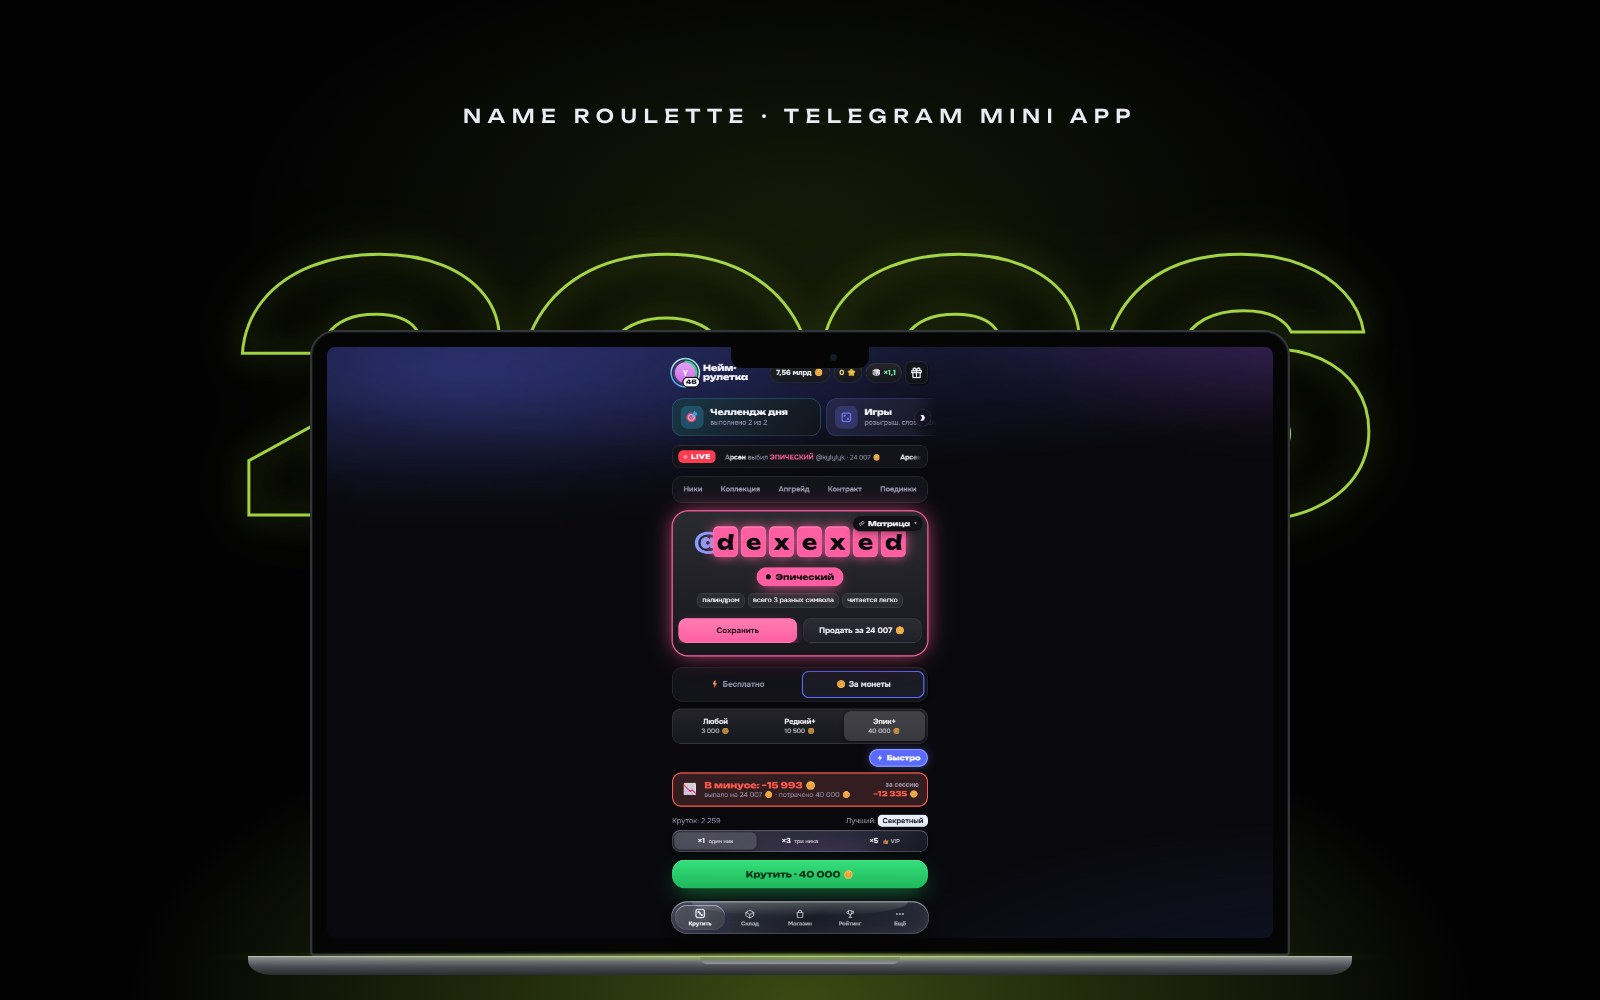
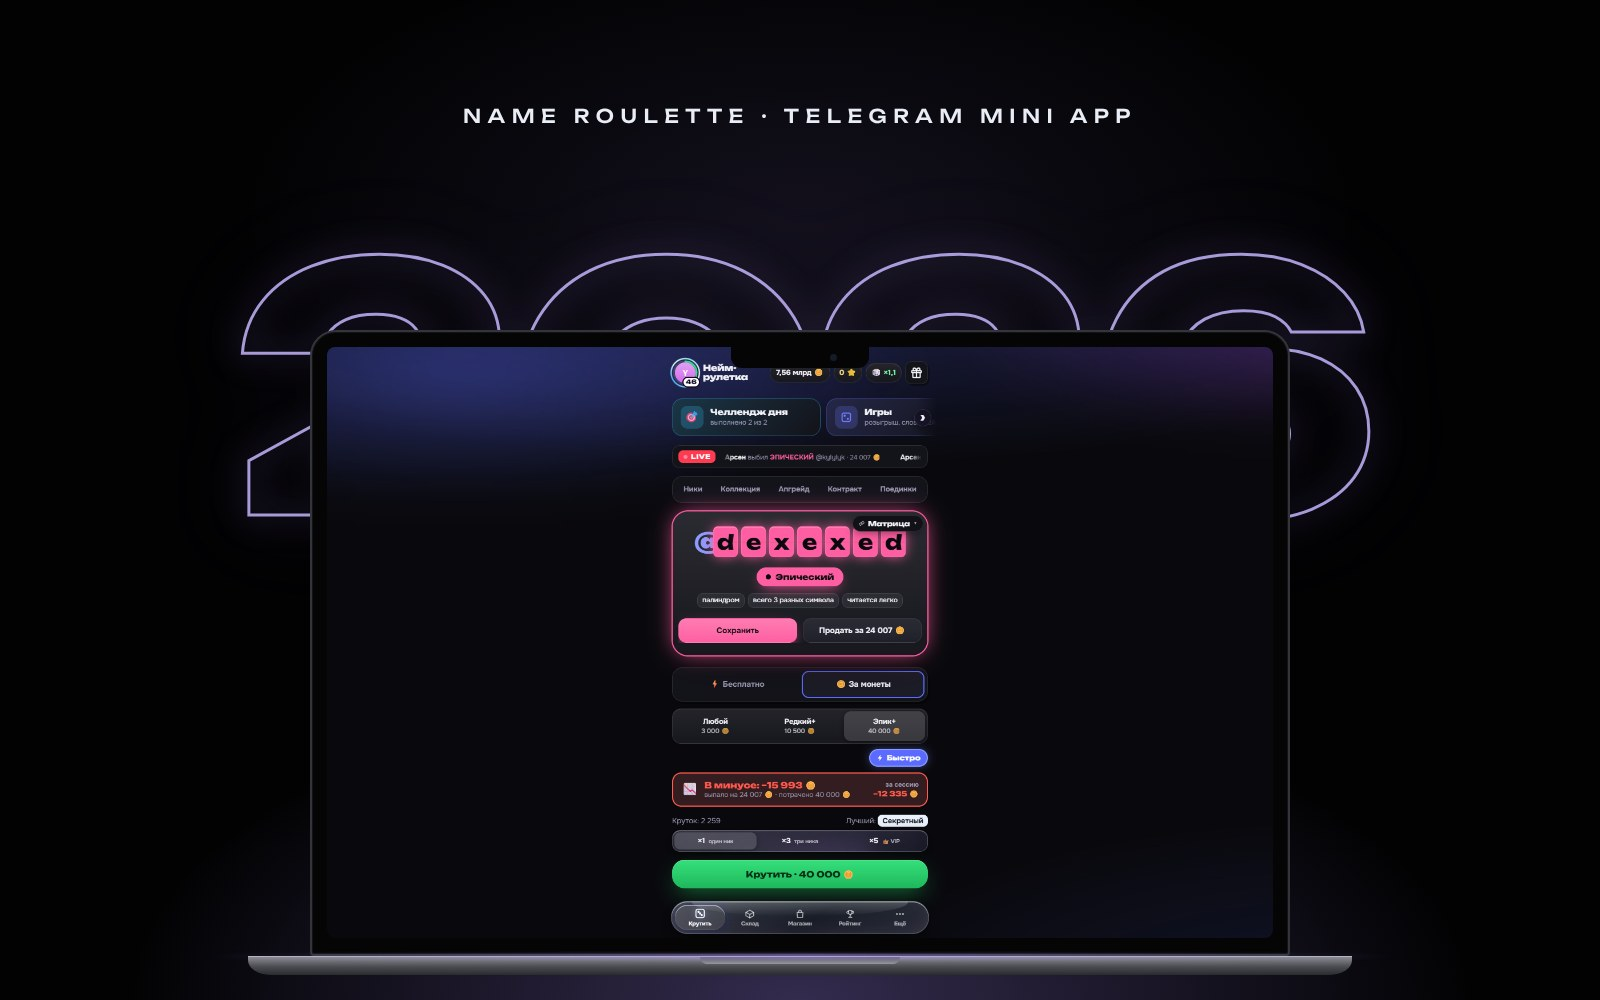
Акцент сайта: фиолетовый вместо лаймового
Claude-Session: https://claude.ai/code/session_01LKqLCD9wZr4nvdWgEXEFpT

diff --git a/css/style.css b/css/style.css
@@ -7,8 +7,8 @@
   --line2: rgba(255, 255, 255, .16);
   --text: #f2f4f7;
   --muted: #8b919c;
-  --accent: #b8f13a;
-  --accent2: #a3d92a;
+  --accent: #a78bfa;
+  --accent2: #8b5cf6;
   --ease: cubic-bezier(.22, .61, .36, 1);
   --slow: .88s;
   --wrap: 1080px;
@@ -19,11 +19,11 @@
 }
 
 *, *::before, *::after { box-sizing: border-box; }
-html { scrollbar-width: thin; scrollbar-color: #b8f13a #030304; }
+html { scrollbar-width: thin; scrollbar-color: #a78bfa #030304; }
 ::-webkit-scrollbar { width: 10px; height: 10px; }
 ::-webkit-scrollbar-track { background: #030304; }
-::-webkit-scrollbar-thumb { background: linear-gradient(180deg, #b8f13a, #a3d92a); border-radius: 10px; border: 2px solid #030304; }
-::-webkit-scrollbar-thumb:hover { background: #d3f97d; }
+::-webkit-scrollbar-thumb { background: linear-gradient(180deg, #a78bfa, #8b5cf6); border-radius: 10px; border: 2px solid #030304; }
+::-webkit-scrollbar-thumb:hover { background: #c4b5fd; }
 html { scroll-behavior: smooth; -webkit-text-size-adjust: 100%; }
 body {
   margin: 0;
@@ -54,9 +54,9 @@ p { margin: 0; }
 /* ---------- фон: медленные размытые пятна ---------- */
 .aurora { position: fixed; inset: 0; z-index: -1; overflow: hidden; pointer-events: none; }
 .orb { position: absolute; border-radius: 50%; filter: blur(110px); opacity: .22; will-change: transform; }
-.orb.o1 { width: 46vw; height: 46vw; left: 27vw; top: -26vw; background: radial-gradient(circle, #b8f13a, transparent 68%); opacity: .2; animation: drift1 46s ease-in-out infinite alternate; }
+.orb.o1 { width: 46vw; height: 46vw; left: 27vw; top: -26vw; background: radial-gradient(circle, #a78bfa, transparent 68%); opacity: .2; animation: drift1 46s ease-in-out infinite alternate; }
 .orb.o2 { width: 44vw; height: 44vw; right: -12vw; top: 18vh; background: radial-gradient(circle, #3c8a2a, transparent 68%); opacity: .16; animation: drift2 58s ease-in-out infinite alternate; }
-.orb.o3 { width: 38vw; height: 38vw; left: 28vw; bottom: -22vw; background: radial-gradient(circle, #b8f13a, transparent 68%); opacity: .1; animation: drift3 52s ease-in-out infinite alternate; }
+.orb.o3 { width: 38vw; height: 38vw; left: 28vw; bottom: -22vw; background: radial-gradient(circle, #a78bfa, transparent 68%); opacity: .1; animation: drift3 52s ease-in-out infinite alternate; }
 @keyframes drift1 { to { transform: translate(14vw, 12vh) scale(1.15); } }
 @keyframes drift2 { to { transform: translate(-16vw, 14vh) scale(.9); } }
 @keyframes drift3 { to { transform: translate(-12vw, -14vh) scale(1.2); } }
@@ -153,7 +153,7 @@ body.menu-open .mnav a { opacity: 1; filter: blur(0); transform: none; transitio
   border: 1px solid transparent;
   transition: background 0.68s var(--ease), color 0.68s var(--ease), border-color 0.68s var(--ease), box-shadow 0.98s var(--ease), transform 0.98s var(--ease);
 }
-.btn:hover { box-shadow: 0 10px 60px -8px rgba(184,241,58, .65); transform: translateY(-2px); }
+.btn:hover { box-shadow: 0 10px 60px -8px rgba(167,139,250, .65); transform: translateY(-2px); }
 .btn.ghost { background: transparent; color: var(--text); border-color: var(--line2); }
 .btn.ghost:hover { border-color: var(--accent); color: var(--accent); box-shadow: none; }
 .btn.sm { padding: 12px 22px; font-size: 15px; }
@@ -185,7 +185,7 @@ section, .page-hero { overflow-x: clip; }
 
 /* ---------- hero ---------- */
 .hero { position: relative; min-height: 100svh; display: flex; align-items: center; justify-content: center; text-align: center; padding: 140px 0 90px; }
-.hero::before { content: ""; position: absolute; inset: 0; z-index: 0; pointer-events: none; background: radial-gradient(ellipse 38% 44% at 86% 6%, rgba(184,241,58, .16), transparent 70%), radial-gradient(ellipse 46% 40% at 50% 38%, rgba(184,241,58, .08), transparent 70%); }
+.hero::before { content: ""; position: absolute; inset: 0; z-index: 0; pointer-events: none; background: radial-gradient(ellipse 38% 44% at 86% 6%, rgba(167,139,250, .16), transparent 70%), radial-gradient(ellipse 46% 40% at 50% 38%, rgba(167,139,250, .08), transparent 70%); }
 .hero .wrap { position: relative; z-index: 1; }
 .kicker { margin-bottom: 26px; font: 400 12px/1 var(--body); letter-spacing: .28em; text-transform: uppercase; color: var(--muted); }
 .hero h1 { font: 300 clamp(38px, 6.4vw, 92px)/1.05 var(--body); letter-spacing: -.035em; max-width: 15.5ch; margin-inline: auto; }
@@ -210,7 +210,7 @@ section, .page-hero { overflow-x: clip; }
 .filters { display: flex; gap: 10px; flex-wrap: wrap; margin-bottom: 36px; }
 .chip { padding: 11px 22px; border-radius: 10px; border: 1px solid var(--line); color: var(--muted); font-size: 15px; transition: color 0.58s var(--ease), border-color 0.58s var(--ease), background 0.58s var(--ease); }
 .chip:hover { color: var(--text); border-color: var(--line2); }
-.chip[aria-pressed="true"] { color: var(--text); background: rgba(184,241,58, .14); border-color: rgba(184,241,58, .5); }
+.chip[aria-pressed="true"] { color: var(--text); background: rgba(167,139,250, .14); border-color: rgba(167,139,250, .5); }
 
 .grid { display: grid; grid-template-columns: repeat(2, 1fr); gap: 26px; align-items: start; }
 .work { text-align: left; display: flex; flex-direction: column; justify-content: flex-start; width: 100%; }
@@ -224,7 +224,7 @@ section, .page-hero { overflow-x: clip; }
 .cover::before { content: ""; position: absolute; inset: 0; background-image: linear-gradient(rgba(255,255,255,.07) 1px, transparent 1px), linear-gradient(90deg, rgba(255,255,255,.07) 1px, transparent 1px); background-size: 44px 44px; -webkit-mask-image: radial-gradient(circle at 70% 30%, #000, transparent 75%); mask-image: radial-gradient(circle at 70% 30%, #000, transparent 75%); }
 .cover .glyph { position: absolute; left: 28px; bottom: 6px; font: 500 clamp(52px, 9vw, 120px)/1 var(--display); letter-spacing: -.06em; color: rgba(255, 255, 255, .9); mix-blend-mode: soft-light; transition: transform 1.08s var(--ease), filter 1.08s var(--ease); }
 .cover img { position: absolute; inset: 0; width: 100%; height: 100%; object-fit: cover; transition: transform 1.08s var(--ease); }
-.work:hover .cover { border-color: rgba(184,241,58, .55); }
+.work:hover .cover { border-color: rgba(167,139,250, .55); }
 .work:hover .cover .glyph, .work:hover .cover img { transform: scale(1.06); }
 .work-info { padding: 22px 6px 0; }
 .work-info .t { color: var(--muted); font-size: 14px; margin-bottom: 8px; }
@@ -242,7 +242,7 @@ section, .page-hero { overflow-x: clip; }
   background: linear-gradient(90deg, rgba(255,255,255,.035), rgba(255,255,255,.01));
   transition: border-color 1s var(--ease), background 1s var(--ease);
 }
-a.svc:hover { border-color: rgba(184,241,58, .5); background: linear-gradient(90deg, rgba(184,241,58,.09), rgba(255,255,255,.01)); }
+a.svc:hover { border-color: rgba(167,139,250, .5); background: linear-gradient(90deg, rgba(167,139,250,.09), rgba(255,255,255,.01)); }
 .svc h3 { font-size: clamp(17px, 1.7vw, 22px); }
 .svc p { color: var(--muted); font-size: 16px; max-width: 52ch; }
 .svc .meta { display: flex; flex-direction: column; align-items: flex-end; gap: 8px; min-width: 150px; text-align: right; }
@@ -273,7 +273,7 @@ a.svc:hover { border-color: rgba(184,241,58, .5); background: linear-gradient(90
 .portrait {
   position: relative;
   aspect-ratio: 4 / 5; border-radius: var(--r); border: 1px solid var(--line); overflow: hidden;
-  background: radial-gradient(circle at 30% 20%, rgba(184,241,58,.5), transparent 60%), radial-gradient(circle at 80% 90%, rgba(184,241,58,.4), transparent 55%), var(--card);
+  background: radial-gradient(circle at 30% 20%, rgba(167,139,250,.5), transparent 60%), radial-gradient(circle at 80% 90%, rgba(167,139,250,.4), transparent 55%), var(--card);
   display: flex; align-items: flex-end; padding: 30px;
 }
 .portrait b { font: 800 clamp(34px, 4.4vw, 60px)/1 var(--display); letter-spacing: -.05em; color: rgba(255,255,255,.95); }
@@ -316,7 +316,7 @@ a.svc:hover { border-color: rgba(184,241,58, .5); background: linear-gradient(90
   display: grid; grid-template-columns: 1.4fr 1fr; gap: clamp(24px, 5vw, 70px); align-items: end;
   padding: clamp(36px, 6vw, 84px);
   border: 1px solid var(--line); border-radius: 32px;
-  background: radial-gradient(circle at 100% 110%, rgba(184,241,58, .34), transparent 55%), radial-gradient(circle at 0% 0%, rgba(184,241,58, .14), transparent 50%), var(--bg2);
+  background: radial-gradient(circle at 100% 110%, rgba(167,139,250, .34), transparent 55%), radial-gradient(circle at 0% 0%, rgba(167,139,250, .14), transparent 50%), var(--bg2);
 }
 .cta-card::before { top: -.3em; transform: translateX(-50%); }
 .cta-card h2 { font-size: clamp(28px, 4.2vw, 56px); max-width: 14ch; text-wrap: balance; }
@@ -333,12 +333,12 @@ a.svc:hover { border-color: rgba(184,241,58, .5); background: linear-gradient(90
   transition: border-color 0.58s var(--ease), box-shadow 0.58s var(--ease);
 }
 .field select { appearance: none; background-image: linear-gradient(45deg, transparent 50%, var(--muted) 50%), linear-gradient(135deg, var(--muted) 50%, transparent 50%); background-position: calc(100% - 22px) 52%, calc(100% - 16px) 52%; background-size: 6px 6px; background-repeat: no-repeat; }
-.field input:focus, .field select:focus, .field textarea:focus { outline: 0; border-color: var(--accent); box-shadow: 0 0 0 4px rgba(184,241,58, .15); }
+.field input:focus, .field select:focus, .field textarea:focus { outline: 0; border-color: var(--accent); box-shadow: 0 0 0 4px rgba(167,139,250, .15); }
 .field textarea { min-height: 150px; }
 .form .note { color: var(--muted); font-size: 14px; }
 .links { display: grid; gap: 14px; }
 .link-card { display: flex; justify-content: space-between; align-items: center; gap: 20px; padding: 26px 28px; border: 1px solid var(--line); border-radius: var(--r); transition: border-color 0.78s var(--ease), background 0.78s var(--ease); }
-.link-card:hover { border-color: rgba(184,241,58, .5); background: rgba(184,241,58, .06); }
+.link-card:hover { border-color: rgba(167,139,250, .5); background: rgba(167,139,250, .06); }
 .link-card b { display: block; font: 400 20px/1.2 var(--display); letter-spacing: -.02em; }
 .link-card span { color: var(--muted); font-size: 15px; }
 .link-card svg { width: 22px; height: 22px; flex: none; color: var(--accent); }
@@ -355,10 +355,10 @@ a.svc:hover { border-color: rgba(184,241,58, .5); background: linear-gradient(90
 .qhint { color: var(--muted); margin: 10px 0 28px; font-size: 15px; max-width: 52ch; }
 .opts { display: grid; gap: 10px; }
 .opt { display: flex; gap: 16px; align-items: flex-start; text-align: left; width: 100%; padding: 16px 18px; border: 1px solid var(--line2); border-radius: 10px; transition: border-color 0.48s var(--ease), background 0.48s var(--ease); }
-.opt:hover { border-color: rgba(184,241,58, .5); }
+.opt:hover { border-color: rgba(167,139,250, .5); }
 .opt .rd { width: 18px; height: 18px; flex: none; margin-top: 3px; border-radius: 50%; border: 1.5px solid var(--muted); position: relative; transition: border-color 0.38s var(--ease); }
 .opt .rd::after { content: ""; position: absolute; inset: 3px; border-radius: 50%; background: var(--accent); transform: scale(0); transition: transform 0.3s var(--ease); }
-.opt[aria-checked="true"] { border-color: var(--accent); background: rgba(184,241,58, .08); }
+.opt[aria-checked="true"] { border-color: var(--accent); background: rgba(167,139,250, .08); }
 .opt[aria-checked="true"] .rd { border-color: var(--accent); }
 .opt[aria-checked="true"] .rd::after { transform: scale(1); }
 .opt b { display: block; font-weight: 500; font-size: 16px; }
@@ -533,7 +533,7 @@ a.work { color: inherit; }
 .pts li, .pts li:last-child { position: relative; padding: 16px 18px 16px 38px; border: 1px solid var(--line); border-radius: 10px; background: rgba(255,255,255,.02); font-size: 14px; }
 .pts li::before { content: ""; position: absolute; left: 16px; top: 22px; width: 7px; height: 7px; background: var(--accent); }
 .case-nav .link-card span { display: block; margin-bottom: 4px; font-size: 12px; }
-.case-cta { display: flex; justify-content: space-between; align-items: center; gap: 24px 40px; flex-wrap: wrap; margin-top: 14px; padding: clamp(24px, 4vw, 40px); border: 1px solid rgba(184,241,58,.3); border-radius: var(--r); background: linear-gradient(120deg, rgba(184,241,58,.14), rgba(255,255,255,.02)); }
+.case-cta { display: flex; justify-content: space-between; align-items: center; gap: 24px 40px; flex-wrap: wrap; margin-top: 14px; padding: clamp(24px, 4vw, 40px); border: 1px solid rgba(167,139,250,.3); border-radius: var(--r); background: linear-gradient(120deg, rgba(167,139,250,.14), rgba(255,255,255,.02)); }
 .case-cta h2 { font-size: clamp(22px, 2.6vw, 32px); margin-bottom: 8px; }
 .case-cta p { color: var(--muted); max-width: 44ch; }
 @media (max-width: 680px) { .pts { grid-template-columns: 1fr; } }
@@ -594,7 +594,7 @@ a.work { color: inherit; }
 .sc-main { display: grid; grid-template-columns: minmax(0, 1.5fr) minmax(0, 1fr); gap: clamp(24px, 4vw, 56px); align-items: center; transition: opacity .26s ease, transform .26s ease; }
 .sc-main.swap { opacity: 0; transform: translateY(8px); }
 .sc-pic { display: block; }
-.sc-pic:hover .cover { border-color: rgba(184,241,58, .55); }
+.sc-pic:hover .cover { border-color: rgba(167,139,250, .55); }
 .sc-pic:hover .cover img { transform: scale(1.03); }
 .sc-type { color: var(--accent); font-size: 14px; margin-bottom: 14px; }
 .sc-info h3 { font-size: clamp(26px, 3vw, 40px); line-height: 1.1; }
@@ -603,7 +603,7 @@ a.work { color: inherit; }
 .sc-grid { display: grid; grid-template-columns: repeat(var(--cols, 4), minmax(0, 1fr)); gap: 20px; margin-top: clamp(28px, 4vw, 48px); }
 .sc-card { display: flex; flex-direction: column; text-align: left; gap: 0; cursor: pointer; background: none; border: 0; padding: 0; color: inherit; font: inherit; }
 .sc-card .cover { transition: border-color .5s var(--ease), transform .5s var(--ease); }
-.sc-card:hover .cover, .sc-card:focus-visible .cover { border-color: rgba(184,241,58, .55); transform: translateY(-3px); }
+.sc-card:hover .cover, .sc-card:focus-visible .cover { border-color: rgba(167,139,250, .55); transform: translateY(-3px); }
 .sc-name { margin-top: 14px; font-size: 16px; }
 .sc-sub { margin-top: 4px; color: var(--muted); font-size: 13px; }
 @media (max-width: 980px) { .sc-main { grid-template-columns: minmax(0, 1fr); } .sc-grid { grid-template-columns: repeat(2, minmax(0, 1fr)); gap: 16px; } }
@@ -622,7 +622,7 @@ a.work { color: inherit; }
 .sc-pic, .sc-card, a.work { -webkit-user-select: none; user-select: none; -webkit-tap-highlight-color: transparent; }
 .sc-pic, .sc-card .cover, a.work .cover { touch-action: pan-y; }
 .cover { will-change: transform; transform-style: preserve-3d; }
-.cover.tilting { transition: border-color .4s var(--ease), box-shadow .3s ease !important; box-shadow: 0 24px 60px rgba(0, 0, 0, .55), 0 0 40px rgba(184,241,58, .12); border-color: rgba(184,241,58, .55); }
+.cover.tilting { transition: border-color .4s var(--ease), box-shadow .3s ease !important; box-shadow: 0 24px 60px rgba(0, 0, 0, .55), 0 0 40px rgba(167,139,250, .12); border-color: rgba(167,139,250, .55); }
 .cover.tilt-back { transition: transform .7s cubic-bezier(.2, .9, .25, 1.2), border-color .6s var(--ease), box-shadow .6s ease !important; }
 .cover.tilting img, .cover.tilting .glyph { transform: none !important; }
 .cover::after { content: ""; position: absolute; inset: 0; pointer-events: none; opacity: 0; transition: opacity .3s ease; background: radial-gradient(circle at var(--gx, 50%) var(--gy, 50%), rgba(255, 255, 255, .22), transparent 55%); }
@@ -633,11 +633,11 @@ a.work { color: inherit; }
 .case-cover { position: relative; }
 .demo-open { position: absolute; left: 50%; bottom: 7%; transform: translateX(-50%); z-index: 3; display: inline-flex; align-items: center; gap: 10px; padding: 13px 22px; border-radius: 999px; border: 1px solid rgba(255,255,255,.22); background: rgba(8,10,16,.72); -webkit-backdrop-filter: blur(10px); backdrop-filter: blur(10px); color: #fff; font: 500 15px/1 var(--body); cursor: pointer; transition: background .4s var(--ease), border-color .4s var(--ease), transform .4s var(--ease); }
 .demo-open:hover { background: var(--accent); border-color: var(--accent); transform: translateX(-50%) translateY(-2px); }
-.demo-open .dot { width: 8px; height: 8px; border-radius: 50%; background: var(--accent); box-shadow: 0 0 0 0 rgba(184,241,58,.6); animation: demoPulse 2.2s infinite; }
+.demo-open .dot { width: 8px; height: 8px; border-radius: 50%; background: var(--accent); box-shadow: 0 0 0 0 rgba(167,139,250,.6); animation: demoPulse 2.2s infinite; }
 .demo-open:hover .dot { background: #fff; }
-@keyframes demoPulse { 70% { box-shadow: 0 0 0 10px rgba(184,241,58,0); } 100% { box-shadow: 0 0 0 0 rgba(184,241,58,0); } }
+@keyframes demoPulse { 70% { box-shadow: 0 0 0 10px rgba(167,139,250,0); } 100% { box-shadow: 0 0 0 0 rgba(167,139,250,0); } }
 .case-cover.demo-on > .demo-open { display: none; }
-.demo { position: absolute; inset: 0; z-index: 4; overflow: auto; padding: 18px; border-radius: inherit; background: radial-gradient(ellipse 60% 45% at 50% 100%, rgba(184,241,58,.28), transparent 70%), #04050a; animation: demoIn .5s var(--ease); }
+.demo { position: absolute; inset: 0; z-index: 4; overflow: auto; padding: 18px; border-radius: inherit; background: radial-gradient(ellipse 60% 45% at 50% 100%, rgba(167,139,250,.28), transparent 70%), #04050a; animation: demoIn .5s var(--ease); }
 @keyframes demoIn { from { opacity: 0; transform: scale(.98); } }
 .case-cover.demo-on { aspect-ratio: auto; min-height: 0; }
 .case-cover.demo-on > .cover { display: none; }
@@ -645,7 +645,7 @@ a.work { color: inherit; }
 .demo-top { display: flex; align-items: center; justify-content: space-between; gap: 12px; margin-bottom: 14px; }
 .demo-hint { color: var(--muted); font-size: 14px; }
 .demo-x { border: 1px solid var(--line); background: transparent; color: #fff; border-radius: 999px; padding: 8px 16px; font: 500 14px/1 var(--body); cursor: pointer; transition: border-color .3s ease, background .3s ease; }
-.demo-x:hover { border-color: var(--accent); background: rgba(184,241,58,.12); }
+.demo-x:hover { border-color: var(--accent); background: rgba(167,139,250,.12); }
 .demo-dev { margin: 0 auto; background: #050506; border: 2px solid #34353a; border-radius: 22px 22px 4px 4px; padding: 12px; }
 .demo-laptop .demo-dev { max-width: 980px; }
 .demo-phone .demo-dev { max-width: 380px; border-radius: 42px; padding: 14px; }
@@ -658,13 +658,13 @@ a.work { color: inherit; }
 .demo { background: none; padding-inline: 0; }
 
 /* подписи типа проекта: моноширинный капс с разрядкой */
-.sc-type, #case-type { font: 400 13px/1.5 var(--mono); letter-spacing: .14em; text-transform: uppercase; color: #d3f97d; }
+.sc-type, #case-type { font: 400 13px/1.5 var(--mono); letter-spacing: .14em; text-transform: uppercase; color: #c4b5fd; }
 .sc-sub, .work-info .t { font-family: var(--mono); font-size: 11px; letter-spacing: .12em; text-transform: uppercase; }
 
 /* ---------- услуги: карточки ---------- */
 .sv-grid { display: grid; grid-template-columns: repeat(3, minmax(0, 1fr)); gap: 20px; }
 .sv { position: relative; display: flex; flex-direction: column; padding: 30px 32px 28px; min-height: 310px; border: 1px solid var(--line); border-radius: 12px; background: linear-gradient(160deg, rgba(255,255,255,.045), rgba(255,255,255,.012)); transition: border-color .5s var(--ease), background .5s var(--ease), transform .5s cubic-bezier(.2,.9,.25,1.1), box-shadow .5s ease; will-change: transform; }
-.sv:hover { border-color: rgba(184,241,58, .45); background: linear-gradient(160deg, rgba(184,241,58,.09), rgba(255,255,255,.015)); box-shadow: 0 24px 60px rgba(0,0,0,.45); }
+.sv:hover { border-color: rgba(167,139,250, .45); background: linear-gradient(160deg, rgba(167,139,250,.09), rgba(255,255,255,.015)); box-shadow: 0 24px 60px rgba(0,0,0,.45); }
 .sv .n { font: 400 12px/1 var(--mono); letter-spacing: .1em; color: var(--muted); opacity: .7; margin-bottom: 26px; }
 .sv h3 { font-size: clamp(24px, 2.2vw, 32px); line-height: 1.08; max-width: 11ch; }
 .sv p { color: var(--muted); font-size: 16px; margin-top: 16px; max-width: 34ch; }
@@ -680,7 +680,7 @@ a.work { color: inherit; }
 .sv .go svg { overflow: visible; }
 .sv:hover .go { background: #fff; color: #05060a; border-color: #fff; transform: rotate(45deg); border-radius: 10px; }
 .sv:hover .go svg { transform: rotate(-90deg); }
-.sv-quiz { background: linear-gradient(160deg, rgba(184,241,58,.12), rgba(184,241,58,.06) 60%, rgba(255,255,255,.01)); }
+.sv-quiz { background: linear-gradient(160deg, rgba(167,139,250,.12), rgba(167,139,250,.06) 60%, rgba(255,255,255,.01)); }
 .sv-quiz .n { color: var(--accent); opacity: 1; }
 @media (max-width: 980px) { .sv-grid { grid-template-columns: repeat(2, minmax(0, 1fr)); } }
 @media (max-width: 680px) { .sv-grid { grid-template-columns: minmax(0, 1fr); gap: 14px; } .sv { min-height: 0; padding: 26px 22px 24px; } .sv h3 { max-width: none; } }

diff --git a/js/data.js b/js/data.js
@@ -100,7 +100,7 @@ window.PROJECTS = [
     type: "Рабочее пространство",
     cat: "app",
     glyph: "q",
-    c1: "#b8f13a",
+    c1: "#a78bfa",
     c2: "#050608",
     featured: false,
     short: "Рабочее пространство для команд: задачи, заметки, чат, диск и ИИ.",
